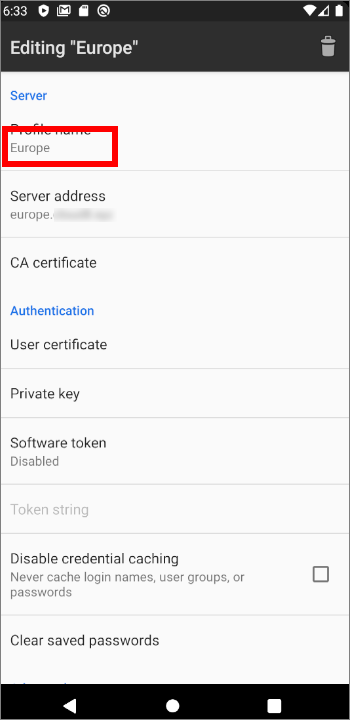
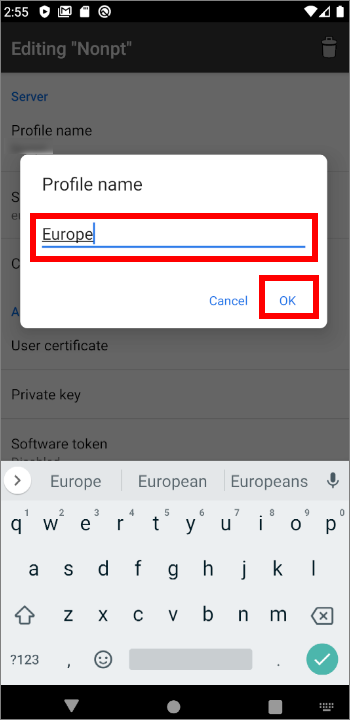
Improve screenshots of client

diff --git a/posts/openconnect-debian-android.html b/posts/openconnect-debian-android.html
@@ -45,7 +45,8 @@ protocols fail. It is a Secure Sockets Layer (SSL)
 virtual private network (VPN). This means that it uses
 the same Transport Layer Security (TLS) as is used by ordinary
 websites that support HTTPS. The consequence is that OpenConnect can often 
-pass by censors undetected.</p>
+pass by censors undetected. It has also (currently experimental) compatibility 
+with clients using the AnyConnect SSL VPN protocol.</p>
 
 <p>This tutorial will show you how to install OpenConnect SSL VPN 
 on a Debian server and an Android client.</p>
@@ -270,7 +271,8 @@ points to your server IP address:</p>
 <br>
 nslookup europe.example.com 1.1.1.1</p>
 
-<p>Wait until this command returns your server IP address.</p>
+<p>If you receive an <code>NXDOMAIN</code> response, wait a while, then repeat
+the <code>nslookup</code> command until it returns your server IP address.</p>
 
 <p>Install the Let&rsquo;s Encrypt client, Certbot:</p>
 
@@ -301,11 +303,17 @@ Set everything up for automatic renewal every 90 days:</p>
 
 <h3>1.7. Install OpenConnect</h3>
 
-<p>Install OpenConnect from the Debian repositories.
-We do not need the Network Manager graphical user interface (GUI)
-for OpenConnect &mdash; just the OpenConnect server package:</p>
+<p>Install OpenConnect from the Debian repositories. Note that 
+we do not need the OpenConnect client (<code>openconnect</code>) or the related
+Network Manager graphical user interface (GUI) for OpenConnect &mdash; 
+just the OpenConnect server package, <code>ocserv</code>:</p>
 
 <p class="terminal">apt install ocserv</p>
+
+<p>The version of <code>ocserv</code> in the Debian repositories 
+is 0.12.2. This should suit most people. If you want a more recent version, 
+you will need to 
+<a href="http://www.infradead.org/openconnect/building.html" target="_blank">build from source</a>.</p>
 
 <h3>1.8. Create Passwords</h3>
 
@@ -331,7 +339,7 @@ for each new user.</p>
 
 <h3>1.9. Configure OpenConnect</h3>
 
-<p>Now we come to the major coniguration of OpenConnect.
+<p>Now we come to the main coniguration of OpenConnect.
 Edit the configuration file.
 If your preferred editor is the <code>vi</code> editor:</p>
 
@@ -469,13 +477,17 @@ This is called masquerading.</p>
 
 <p class="terminal">nft add table nat</p>
 
-<p>Add the chains and rules to perform outbound IP address masquerading:</p>
+<p>Add prerouting and postrouting chains:</p>
 
 <p class="terminal">nft add chain nat prerouting { type nat hook prerouting priority 0 \; }<br>
 <br>
-nft add chain nat postrouting { type nat hook postrouting priority 100 \; }<br>
-<br>
-nft add rule nat postrouting ip saddr 10.10.0.0/24 oif eth0 masquerade</p>
+nft add chain nat postrouting { type nat hook postrouting priority 100 \; }</p>
+
+<p>Add a rule to perform outbound IP address masquerading
+for any packet with a source address in the <code>10.10.0.0/24</code> 
+range :</p>
+
+<p class="terminal">nft add rule nat postrouting ip saddr 10.10.0.0/24 oif eth0 masquerade</p>
 
 <p>Save the revised firewall rules as they now stand:</p>
 
@@ -512,27 +524,39 @@ the command:</p>
 <p>Insert the hostname or IP address for your server. 
 Tap <strong>OK</strong>.</p>
 
-<img class="center" src="../images/openconnect-002.png" alt="OpenConnect hostname">
+<img class="center" src="../images/openconnect-002.png" alt="Add profile hostname">
 
-<p>Give the profile a name.</p>
+<p>Give the profile a meaningful name.</p>
 
-<img class="center" src="../images/openconnect-003.png" alt="OpenConnect profile name">
+<img class="center" src="../images/openconnect-003.png" alt="Give profile a name">
+
+<p>The profile now has your intended name.
+Use the Android back button to return to the main screen.</p>
+
+<img class="center" src="../images/openconnect-004.png" alt="Profile renamed">
+
+<p>The new profile is listed.</p>
+
+<img class="center" src="../images/openconnect-005.png" alt="OpenConnect initial screen">
 
 <h3>2.3. Connect</h3>
 
-<p>Select and long press the profile to connect. Tap <strong>OK</strong>.</p>
+<p>Press the profile to connect.</p>
 
-<img class="center" src="../images/openconnect-004.png" alt="OpenConnect ok to connect">
+<img class="center" src="../images/openconnect-006.png" alt="Press profile">
 
-<p>Enter your username and tap <strong>OK</strong>.
-On the next screen, enter your password and tap <strong>OK</strong>.</p>
+<p>Enter your username and tap <strong>OK</strong>.</p>
 
-<img class="center" src="../images/openconnect-005.png" alt="OpenConnect enter username">
+<img class="center" src="../images/openconnect-007.png" alt="Enter username">
+
+<p>On the next screen, enter your password and tap <strong>OK</strong>.</p>
+
+<img class="center" src="../images/openconnect-008.png" alt="Enter password">
 
 <p>The connection is made. The screen now shows the
 <strong>STATUS</strong> and <strong>LOG</strong> tabs for the connection.</p>
 
-<img class="center" src="../images/openconnect-006.png" alt="OpenConnect connected">
+<img class="center" src="../images/openconnect-009.png" alt="OpenConnect status">
 
 <h3>2.4. Test</h3>
 
@@ -547,6 +571,8 @@ not your <em>client</em> IP address.</p>
 <h3>2.5. Disconnect</h3>
 
 <p>Back in OpenConnect, tap the <strong>Disconnect</strong> button.</p>
+
+<img class="center" src="../images/openconnect-010.png" alt="Disconnect button">
 
 <h2>3. Troubleshoot Issues</h2>
 
@@ -563,6 +589,8 @@ is an exact match for the settings on your server.</p>
 
 <p>2. On the client, look at the <strong>LOG</strong> tab 
 for the connection.</p>
+
+<img class="center" src="../images/openconnect-011.png" alt="LOG tab">
 
 <p>3. On the Debian server, look for messages with these commands:</p>
 

diff --git a/index.html b/index.html
@@ -54,8 +54,11 @@
 	fail. It is a Secure Sockets Layer (SSL) virtual private network (VPN). 
 	This means that it uses the same Transport Layer Security (TLS) as is used 
 	by ordinary websites that support HTTPS. The consequence is that 
-	OpenConnect can often pass by censors undetected. This tutorial will show you how to install OpenConnect SSL VPN on a Debian server and an Android client. Android is 
-	the most popular mobile operating system in the world, running on around 
+	OpenConnect can often pass by censors undetected. It has also 
+	(currently experimental) compatibility with clients using the AnyConnect 
+	SSL VPN protocol.This tutorial will show you how to install OpenConnect 
+	SSL VPN on a Debian server and an Android client. Android is the most 
+	popular mobile operating system in the world, running on around 
 	five out of every six mobile devices.</p>
 	
 	<p><a href="posts/trojan-gfw-centos-igniter-android.html"><strong>Trojan-GFW on CentOS, Igniter on Android</strong></a>
